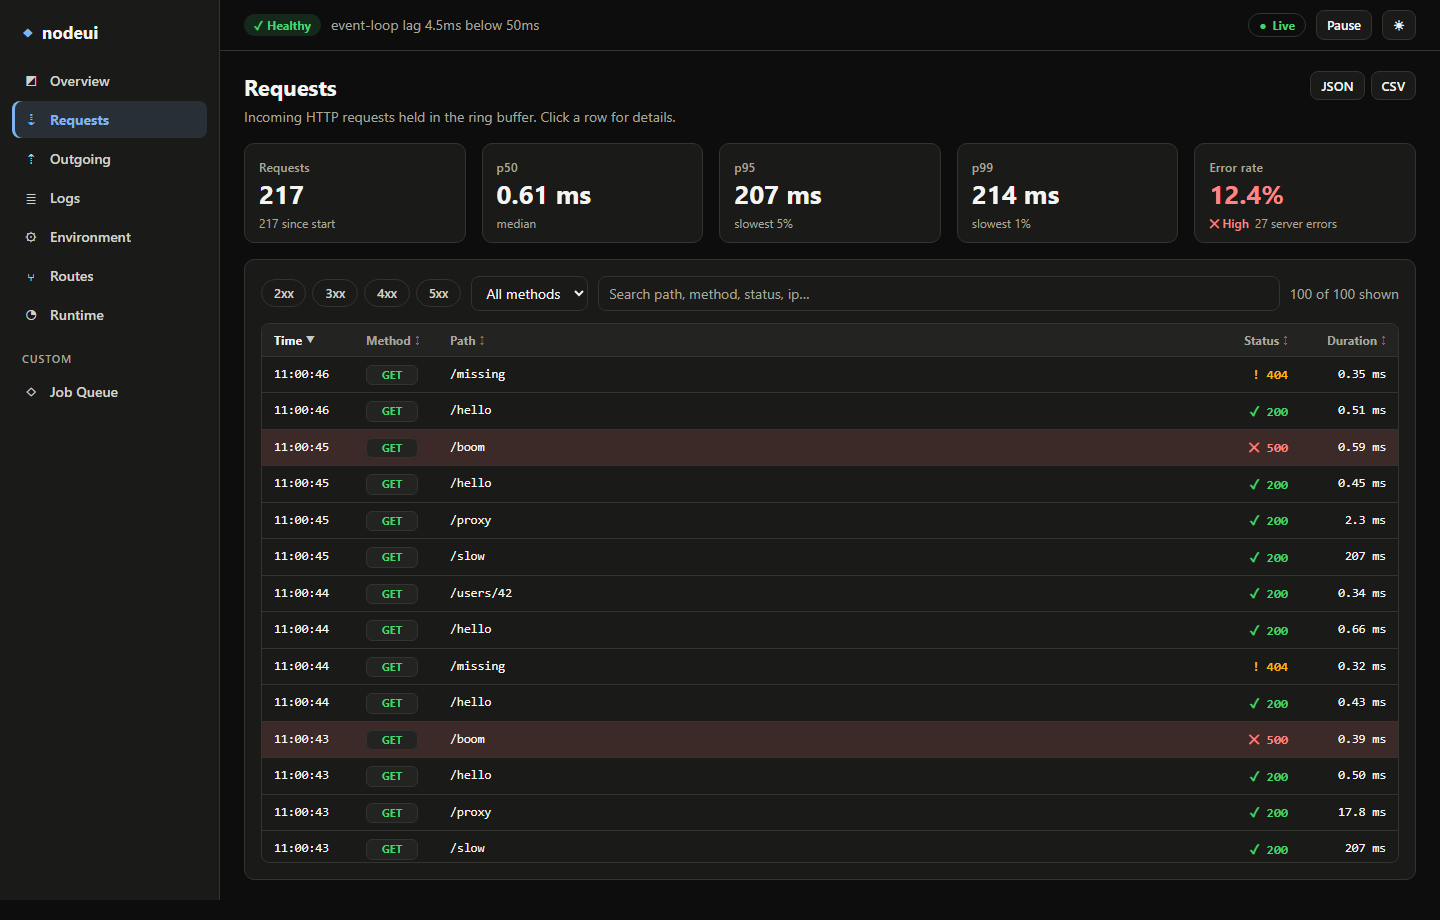
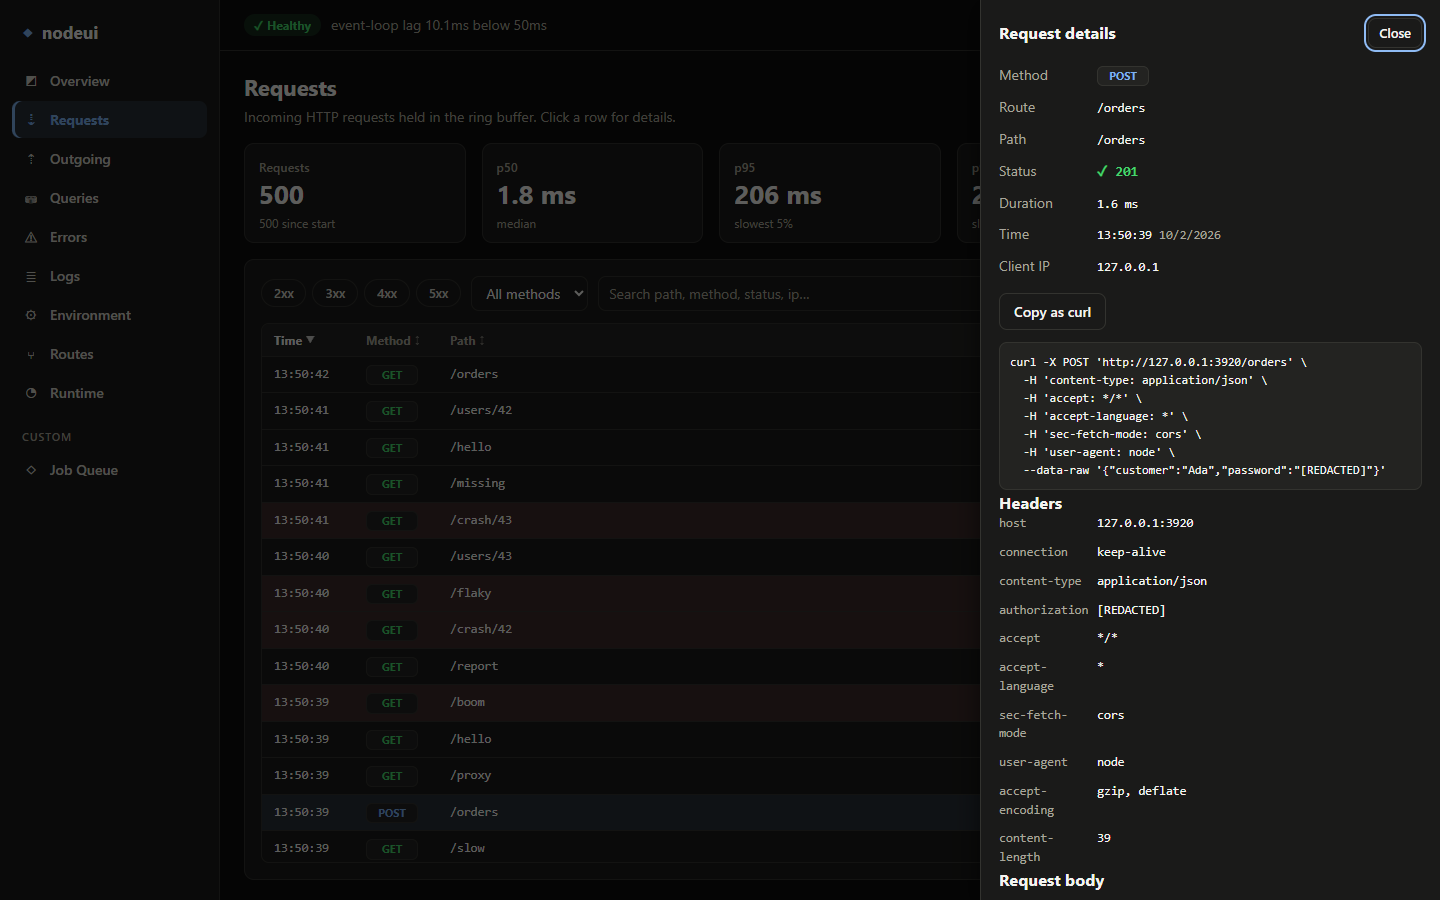
docs: refresh screenshots for 0.4.0 (errors, queries, request detail)

diff --git a/apps/demo-express/src/index.ts b/apps/demo-express/src/index.ts
@@ -185,9 +185,7 @@ app.listen(port, host, () => {
         headers: post
           ? { 'content-type': 'application/json', authorization: 'Bearer demo-secret' }
           : undefined,
-        body: post
-          ? JSON.stringify({ customer: 'Ada', card: '4111-1111-1111-1111', password: 'hunter2' })
-          : undefined,
+        body: post ? JSON.stringify({ customer: 'Ada', password: 'hunter2' }) : undefined,
       }).catch(() => undefined);
       if (path === '/slow') console.warn('[demo-express] slow endpoint hit');
       if (path === '/boom') console.error('[demo-express] token=abc123 failed for /boom');

diff --git a/README.md b/README.md
@@ -98,9 +98,17 @@ Light theme (follows your OS setting, with a toggle in the header):
 
 ![NodeUI Overview (light)](docs/screenshots/overview-light.png)
 
-**Requests** view: p50/p95/p99, error rate, status/method filters, search, sortable columns and a detail drawer with _Copy as curl_.
+**Requests** view: p50/p95/p99, error rate, status/method filters, search, sortable columns and a detail drawer with the matched route, headers, captured body and _Copy as curl_ (credentials and secret-looking body fields show as `[REDACTED]`).
 
 ![NodeUI Requests](docs/screenshots/requests.png)
+
+**Errors** view: failures grouped by type, message shape and origin, with counts, the stack and the linked request.
+
+![NodeUI Errors](docs/screenshots/errors.png)
+
+**Queries** view: SQL statements with duration and rows, flagging slow statements and N+1 suspects (the same statement repeated within one request).
+
+![NodeUI Queries](docs/screenshots/queries.png)
 
 Notice that secrets are masked everywhere: `DATABASE_URL`, `JWT_SECRET` and `STRIPE_API_KEY` show as `[REDACTED]`, and the log line `token=abc123` is scrubbed to `token=[REDACTED]`. Use the sidebar to switch between Overview, Requests, Outgoing, Logs, Environment, Routes, Runtime and your own plugin panels; the Pause button freezes the display so you can read it.
 
